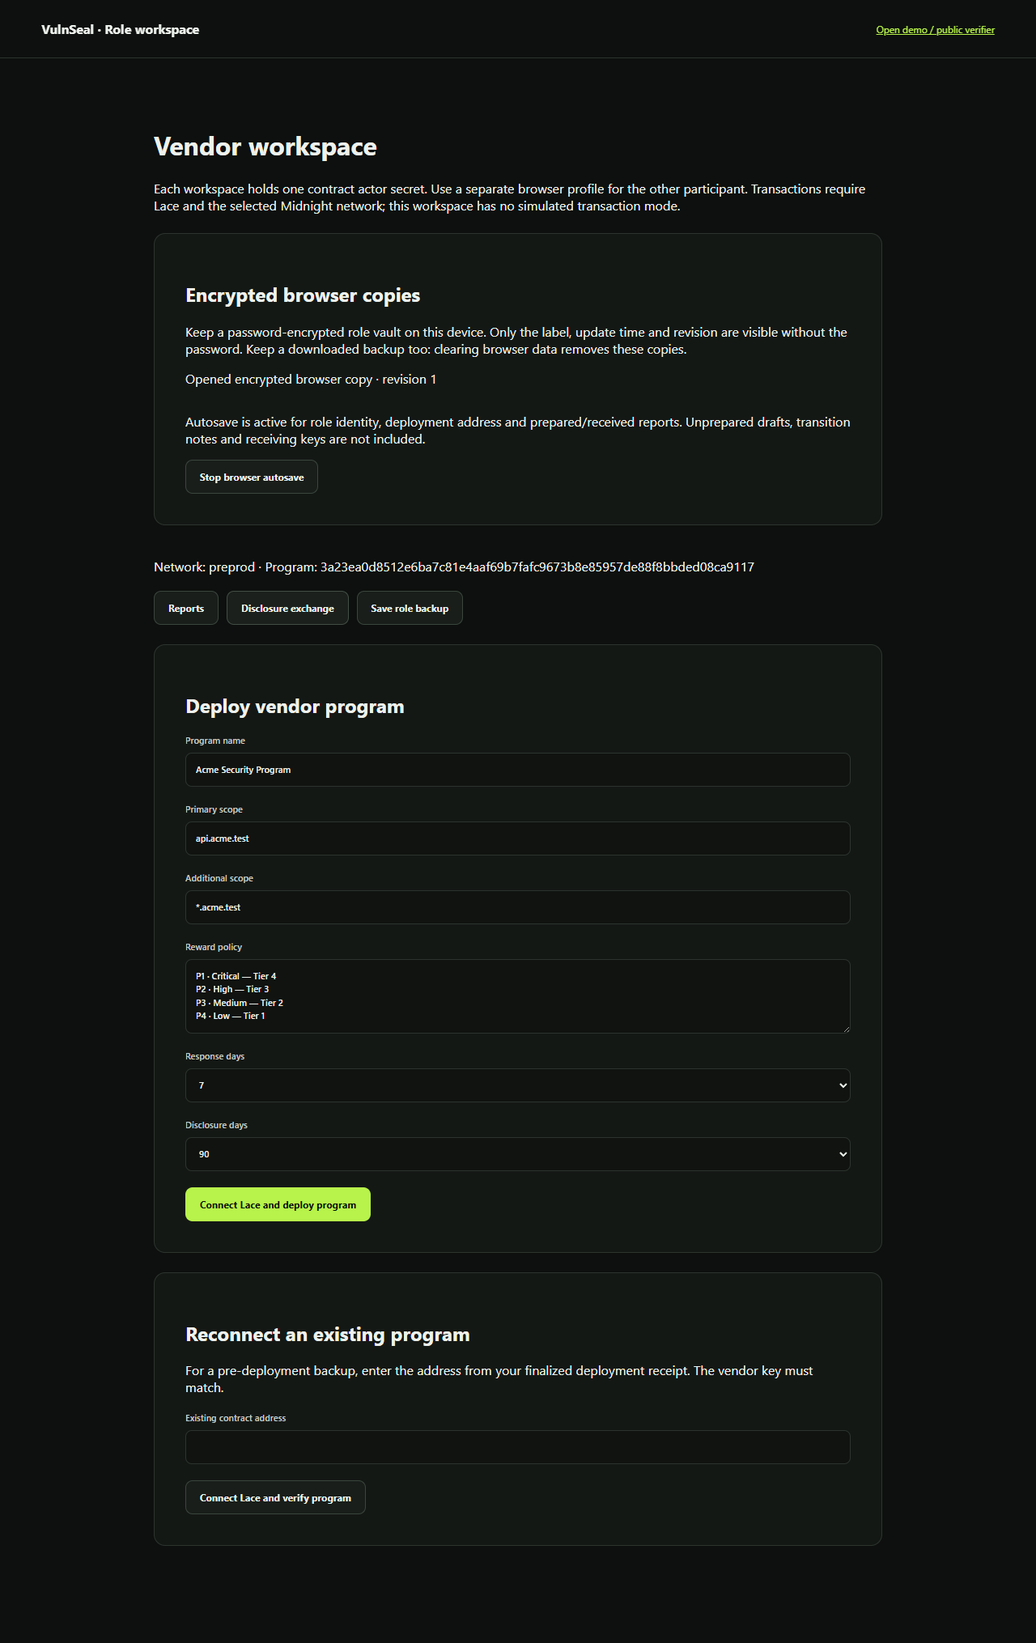
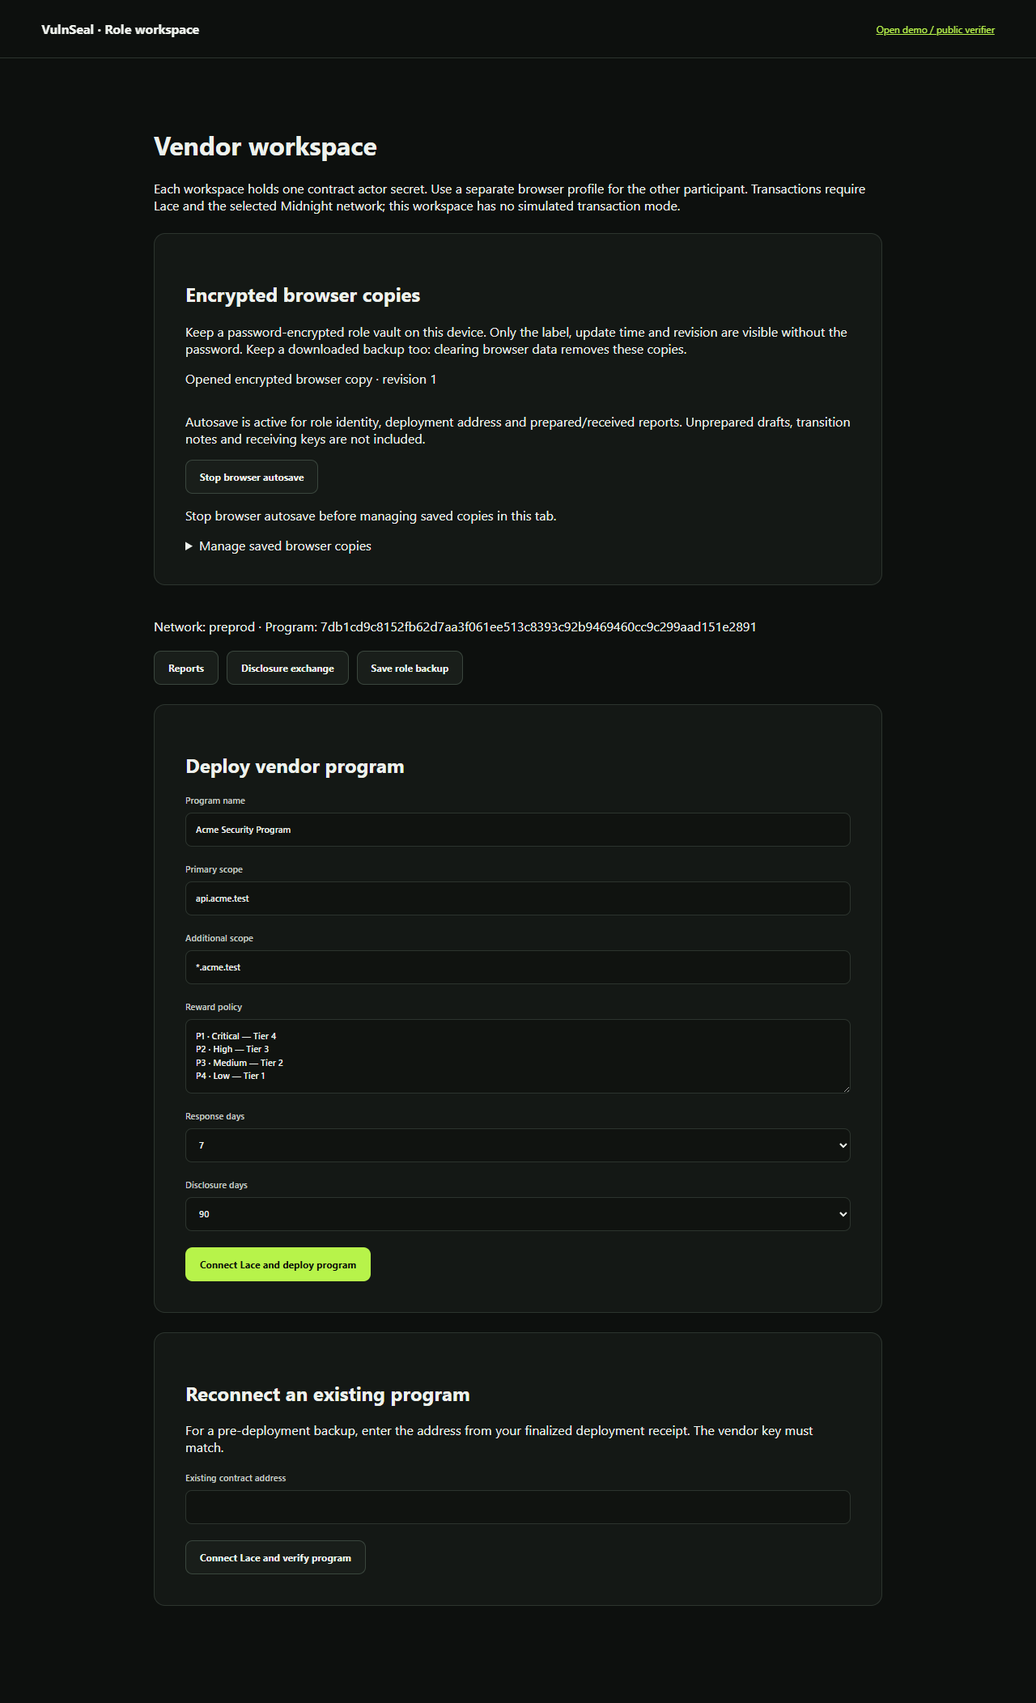
feat(web): manage encrypted browser copies with safe export and deletion

diff --git a/e2e/role-storage.spec.ts b/e2e/role-storage.spec.ts
@@ -63,4 +63,62 @@ test("IndexedDB revision comparison rejects concurrent and plaintext overwrites 
   }, id);
   expect(final.rejected).toBe(true); expect(final.row.revision).toBe(2); expect(final.row.encrypted).toBe(encrypted);
   expect(final.labels[0]).not.toHaveProperty("encrypted");
+  const deletion = await page.evaluate(async ({ id, encrypted }) => {
+    const storage = (window as unknown as { __roleStorageTest: typeof Storage }).__roleStorageTest;
+    let staleDelete = "", staleWrite = "";
+    try { await storage.deleteStoredRole(id, 1); } catch (error) { staleDelete = String(error); }
+    const retained = await storage.readStoredRole(id);
+    await storage.deleteStoredRole(id, 2);
+    try { await storage.writeStoredRole(id, "Stale tab", encrypted, 2); } catch (error) { staleWrite = String(error); }
+    return { staleDelete, retained: retained.revision, staleWrite, rows: await storage.listStoredRoles() };
+  }, { id, encrypted });
+  expect(deletion.staleDelete).toContain("changed in another tab");
+  expect(deletion.retained).toBe(2);
+  expect(deletion.staleWrite).toContain("changed in another tab");
+  expect(deletion.rows).toEqual([]);
+});
+
+test("catalog exports an encrypted copy before confirmed deletion and restores it in a separate browser context", async ({ page, browser }, testInfo) => {
+  await page.goto("/#roles");
+  await page.getByRole("button", { name: "Prepare vendor identity" }).click();
+  await page.getByLabel("Browser copy label").fill("Recovery drill");
+  await page.getByLabel("Browser copy password", { exact: true }).fill("Catalog export recovery password");
+  await page.getByLabel("Confirm browser copy password").fill("Catalog export recovery password");
+  await page.getByRole("button", { name: "Enable encrypted browser autosave" }).click();
+  await expect(page.getByText(/Saved encrypted browser copy · revision 1/)).toBeVisible();
+  await page.getByText("Manage saved browser copies", { exact: true }).click();
+  await expect(page.getByRole("button", { name: "Load saved-copy catalog" })).toBeDisabled();
+  await page.getByRole("button", { name: "Stop browser autosave" }).click();
+  await page.getByRole("button", { name: "Load saved-copy catalog" }).click();
+  await expect(page.getByText("Found 1 encrypted browser copies.")).toBeVisible();
+  await page.getByLabel("Browser copy to manage").selectOption({ index: 1 });
+  await expect(page.getByRole("button", { name: "Delete selected browser copy" })).toBeDisabled();
+  const downloadPromise = page.waitForEvent("download");
+  await page.getByRole("button", { name: "Download selected encrypted copy" }).click();
+  const path = testInfo.outputPath("catalog-backup.json");
+  await (await downloadPromise).saveAs(path);
+  const serialized = await readFile(path, "utf8");
+  const vault = await decryptRoleVault(serialized, "Catalog export recovery password");
+  expect(serialized).not.toContain(vault.actorSecret);
+  if (process.env.VULNSEAL_CAPTURE_VISUALS === "1") {
+    await page.evaluate(() => { (document.activeElement as HTMLElement | null)?.blur(); window.scrollTo({ top: 0, behavior: "instant" }); });
+    await page.screenshot({ path: `docs/screenshots/${testInfo.project.name}-copy-catalog.png`, fullPage: true });
+  }
+  await page.getByRole("checkbox", { name: /I understand deleting this copy/ }).check();
+  await page.getByRole("button", { name: "Delete selected browser copy" }).click();
+  await expect(page.getByText(/Deleted browser copy Recovery drill, revision 1/)).toBeVisible();
+  await expect(page.getByRole("heading", { name: "Vendor workspace" })).toBeVisible();
+  await page.getByRole("button", { name: "Reports", exact: true }).click();
+  await expect(page.getByRole("button", { name: "Connect Lace and deploy program" })).toBeDisabled();
+  await page.getByRole("button", { name: "Load saved-copy catalog" }).click();
+  await expect(page.getByText("No saved browser copies on this device.")).toBeVisible();
+  const isolated = await browser.newContext();
+  try {
+    const restored = await isolated.newPage(); await restored.goto(new URL("/#roles", page.url()).href);
+    await restored.getByLabel("Single-role backup file").setInputFiles(path);
+    await restored.getByLabel("Role restore password").fill("Catalog export recovery password");
+    await restored.getByRole("button", { name: "Restore role workspace" }).click();
+    await expect(restored.getByRole("heading", { name: "Vendor workspace" })).toBeVisible();
+    await expect(restored.getByText(`Network: preprod · Program: ${vault.programId}`, { exact: true })).toBeVisible();
+  } finally { await isolated.close(); }
 });

diff --git a/web/src/RoleCopyCatalog.tsx b/web/src/RoleCopyCatalog.tsx
@@ -1,0 +1,57 @@
+// SPDX-License-Identifier: Apache-2.0
+import { useRef, useState } from "react";
+import { deleteStoredRole, listStoredRoles, readStoredRole, type StoredRoleLabel } from "./role-storage.js";
+
+/** Catalog operations never decrypt a vault or install an actor identity. */
+export function RoleCopyCatalog({ disabled, onDeleted }: { readonly disabled: boolean; readonly onDeleted: (id: string) => void }) {
+  const [rows, setRows] = useState<StoredRoleLabel[]>([]);
+  const [selected, setSelected] = useState("");
+  const [confirmed, setConfirmed] = useState(false);
+  const [working, setWorking] = useState(false);
+  const [message, setMessage] = useState("");
+  const [error, setError] = useState("");
+  const busy = useRef(false);
+  const row = rows.find((entry) => entry.id === selected);
+  const run = async (action: () => Promise<void>) => {
+    if (busy.current || disabled) return;
+    busy.current = true;
+    setWorking(true); setError(""); setMessage("");
+    try { await action(); } catch (cause) { setConfirmed(false); setError(cause instanceof Error ? cause.message : "Browser copy operation failed"); }
+    finally { busy.current = false; setWorking(false); }
+  };
+  return <details>
+    <summary>Manage saved browser copies</summary>
+    <p>Download an encrypted copy before removing it from this device. Downloads keep the existing password and can be opened with Restore one role. A download does not verify that you remember the password.</p>
+    {message && <p role="status">{message}</p>}{error && <p role="alert">{error}</p>}
+    <fieldset className="workflow-controls" disabled={disabled || working}>
+      <button type="button" className="secondary-button" onClick={() => void run(async () => {
+        const values = await listStoredRoles(); setRows(values); setConfirmed(false);
+        if (!values.some((entry) => entry.id === selected)) setSelected("");
+        setMessage(values.length ? `Found ${values.length} encrypted browser copies.` : "No saved browser copies on this device.");
+      })}>Load saved-copy catalog</button>
+      <label>Browser copy to manage<select value={selected} onChange={(event) => { setSelected(event.target.value); setConfirmed(false); setError(""); setMessage(""); }}>
+        <option value="">Choose a copy to manage</option>
+        {rows.map((entry) => <option key={entry.id} value={entry.id}>{entry.label} · revision {entry.revision} · {entry.updatedAt}</option>)}
+      </select></label>
+      {row && <>
+        <p>Selected: {row.label} · revision {row.revision}. Copy ID: {row.id}</p>
+        <button type="button" className="secondary-button" onClick={() => void run(async () => {
+          const current = await readStoredRole(row.id);
+          if (current.revision !== row.revision) throw new Error("This browser copy changed. Reload the catalog before exporting the latest revision.");
+          const url = URL.createObjectURL(new Blob([current.encrypted], { type: "application/json" }));
+          const link = document.createElement("a"); link.href = url; link.download = `vulnseal-role-device-${row.id}-backup.json`;
+          document.body.append(link); link.click(); link.remove(); setTimeout(() => URL.revokeObjectURL(url), 1000);
+          setMessage(`Encrypted revision ${row.revision} downloaded. Confirm the file was saved and retain its password.`);
+        })}>Download selected encrypted copy</button>
+        <p>Deleting removes only this browser copy. It does not remove downloaded backups, other copies, ciphertext service files or on-chain records. An open workspace stays in memory; its next autosave to this deleted copy will stop.</p>
+        <label className="check-row"><input type="checkbox" checked={confirmed} onChange={(event) => setConfirmed(event.target.checked)} />I understand deleting this copy may remove my only saved authority and reports.</label>
+        <button type="button" className="secondary-button" disabled={!confirmed} onClick={() => void run(async () => {
+          await deleteStoredRole(row.id, row.revision);
+          onDeleted(row.id);
+          setRows((values) => values.filter((entry) => entry.id !== row.id)); setSelected(""); setConfirmed(false);
+          setMessage(`Deleted browser copy ${row.label}, revision ${row.revision}. Other copies remain unchanged.`);
+        })}>Delete selected browser copy</button>
+      </>}
+    </fieldset>
+  </details>;
+}

diff --git a/web/src/LocalRoleStorage.tsx b/web/src/LocalRoleStorage.tsx
@@ -3,11 +3,12 @@ import { useEffect, useRef, useState, type FormEvent } from "react";
 import { decryptRoleVault, encryptRoleVault, type RoleVault } from "./role-recovery.js";
 import { listStoredRoles, readStoredRole, writeStoredRole, type StoredRoleLabel } from "./role-storage.js";
 import { RoleAutosave } from "./role-autosave.js";
+import { RoleCopyCatalog } from "./RoleCopyCatalog.js";
 
 export function LocalRoleStorage({ vault, disabled, onRestore, onSaved }: {
   readonly vault: RoleVault | undefined; readonly disabled: boolean;
   readonly onRestore: (vault: RoleVault) => Promise<void>;
-  readonly onSaved: (vault: RoleVault) => void;
+  readonly onSaved: (vault: RoleVault | undefined) => void;
 }) {
   const [rows, setRows] = useState<StoredRoleLabel[]>([]);
   const [selected, setSelected] = useState("");
@@ -21,6 +22,7 @@ export function LocalRoleStorage({ vault, disabled, onRestore, onSaved }: {
   const [error, setError] = useState("");
   const activeWriter = useRef<RoleAutosave | undefined>(undefined);
   const saved = useRef<RoleVault | undefined>(undefined);
+  const savedCopyId = useRef<string | undefined>(undefined);
   const latest = useRef({ vault, onRestore, onSaved }); latest.current = { vault, onRestore, onSaved };
   const mounted = useRef(true), busy = useRef(false);
   useEffect(() => {
@@ -59,6 +61,7 @@ export function LocalRoleStorage({ vault, disabled, onRestore, onSaved }: {
           if (!mounted.current) return;
           const row = await writeStoredRole(crypto.randomUUID(), label, encrypted, null);
           if (!mounted.current) return;
+          savedCopyId.current = row.id;
           bind(new RoleAutosave(row, password), captured); latest.current.onSaved(captured); setPassword(""); setConfirmation("");
           setMessage(`Saved encrypted browser copy · revision ${row.revision} · ${row.updatedAt}`);
         })}>
@@ -73,6 +76,7 @@ export function LocalRoleStorage({ vault, disabled, onRestore, onSaved }: {
           if (latest.current.vault) throw new Error("A workspace is already open. Restore in a fresh tab.");
           await latest.current.onRestore(restored);
           if (!mounted.current) return;
+          savedCopyId.current = row.id;
           bind(new RoleAutosave(row, password), restored); setPassword("");
           setMessage(`Opened encrypted browser copy · revision ${row.revision}`);
         })}>
@@ -82,5 +86,14 @@ export function LocalRoleStorage({ vault, disabled, onRestore, onSaved }: {
           <button type="button" className="secondary-button" onClick={() => void listStoredRoles().then(setRows).catch((cause) => setError(cause instanceof Error ? cause.message : "Could not refresh browser copies"))}>Refresh browser copies</button>
         </form>}
     </fieldset>
+    {writer && <p>Stop browser autosave before managing saved copies in this tab.</p>}
+    <RoleCopyCatalog disabled={disabled || working || pending > 0 || writer !== undefined} onDeleted={(id) => {
+      setRows((values) => values.filter((entry) => entry.id !== id));
+      if (selected === id) setSelected("");
+      if (savedCopyId.current === id) {
+        savedCopyId.current = undefined; saved.current = undefined; latest.current.onSaved(undefined);
+        setMessage("The browser copy for this workspace was deleted. Save the open workspace again before submitting a transaction.");
+      }
+    }} />
   </section>;
 }

diff --git a/web/src/role-storage.ts b/web/src/role-storage.ts
@@ -70,3 +70,23 @@ export const writeStoredRole = async (id: string, labelText: string, encrypted: 
     tx.onabort = tx.onerror = () => { db.close(); reject(failure ?? tx.error ?? new Error("Encrypted browser storage write failed")); };
   });
 };
+
+/** Delete only the revision the user reviewed; an active stale writer cannot recreate it. */
+export const deleteStoredRole = async (id: string, expectedRevision: number): Promise<void> => {
+  if (!Number.isSafeInteger(expectedRevision) || expectedRevision < 1) throw new Error("Invalid browser-copy revision");
+  const db = await open();
+  return new Promise((resolve, reject) => {
+    const tx = db.transaction(storeName, "readwrite", { durability: "strict" });
+    const store = tx.objectStore(storeName), request = store.get(id);
+    let failure: unknown;
+    request.onsuccess = () => {
+      try {
+        if (!request.result) throw new Error("Encrypted browser copy was already removed. Refresh the catalog.");
+        if (metadata(request.result).revision !== expectedRevision) throw new Error("This browser copy changed in another tab. Refresh the catalog and review the latest revision before deleting.");
+        store.delete(id);
+      } catch (error) { failure = error; tx.abort(); }
+    };
+    tx.oncomplete = () => { db.close(); resolve(); };
+    tx.onabort = tx.onerror = () => { db.close(); reject(failure ?? tx.error ?? new Error("Could not delete encrypted browser copy")); };
+  });
+};

diff --git a/docs/adr/0011-encrypted-browser-autosave.md b/docs/adr/0011-encrypted-browser-autosave.md
@@ -20,6 +20,8 @@ The UI marks a vault revision saved only after persistence completes and only wh
 
 The catalog reveals metadata only. Unlock authenticates/decrypts the role backup, then uses the same program/authority/report checks as file recovery before installing a deployed workspace. Restoring an undeployed vendor identity requires no wallet. Autosave resumes from the exact loaded revision; changes made elsewhere before the next write trigger a conflict. The app makes no cross-tab merge attempt.
 
-Autosave covers the current `RoleVault`: role identity, deployment address and prepared/received reports. Unprepared draft edits, transition notes, receiving keys and complete transaction history are still outside that schema. The feature is scoped to one origin/browser profile and does not synchronize across devices. Password recovery, persistent-storage grants, deletion UI and quota management remain separate work. Existing IndexedDB rows are preserved on validation or storage failure.
+Autosave covers the current `RoleVault`: role identity, deployment address and prepared/received reports. Unprepared draft edits, transition notes, receiving keys and complete transaction history are still outside that schema. The feature is scoped to one origin/browser profile and does not synchronize across devices. Password recovery, persistent-storage grants and quota management remain separate work. Existing IndexedDB rows are preserved on validation or storage failure.
+
+The copy catalog exports the existing encrypted envelope without decrypting it or connecting a wallet. Export checks the reviewed revision; password knowledge is only established by a later successful restore. Deletion requires an explicit loss acknowledgment and compares the reviewed revision atomically before removing one row. The check uses metadata, so malformed ciphertext does not prevent removal. Stale writers expect an existing revision and cannot recreate deleted rows. Management is disabled while this tab is autosaving; removing this tab's saved copy resets its backup gate. Other tabs detect deletion on their next write; there is no immediate cross-tab revocation. Downloads, other copies, server files and public records are unaffected. Deletion makes no forensic-erasure guarantee.
 
 Evidence includes serialized writer tests, a UI changed-vault persistence test, fresh-tab recovery in production Chrome, and a two-tab atomic-revision test against real IndexedDB using the repository storage module. No network transaction or native Lace recovery is established by those tests.

diff --git a/docs/role-workspace.md b/docs/role-workspace.md
@@ -12,6 +12,8 @@ To resume, restore the appropriate single-role file and password in a fresh role
 
 For device-local persistence, choose **Enable encrypted browser autosave**, enter a non-sensitive label and password, and wait for **Saved encrypted browser copy**. Future role-vault changes are saved automatically. In a fresh tab, select that copy and unlock with its password; deployed programs still undergo the normal Lace/ledger checks. A successful browser save also satisfies the transaction backup gate. Keep downloaded backups because browser data can be cleared or evicted. If another tab changes the same copy, autosave stops instead of overwriting it; reopen the latest copy in a fresh tab or export the current workspace to a separate file. See [ADR-0011](adr/0011-encrypted-browser-autosave.md).
 
+To export or remove a stored copy, stop autosave in the current tab, open **Manage saved browser copies**, and load the catalog. Select the label/revision, then download its existing encrypted envelope; no password or wallet connection is needed to export. Keep the original password and test **Restore one role** in a separate browser profile before relying on the file. To delete, review the selected copy and acknowledge the loss warning. If another tab updated it, reload and review the latest revision first. Deletion affects only that browser row; an old autosave writer cannot recreate it. Deleting the copy used by the open workspace resets its transaction backup gate, so save again before submitting. Other downloaded copies, server ciphertext and on-chain records remain. This is logical deletion, not guaranteed forensic erasure.
+
 Save a new role backup after adding reports/disclosures or learning a deployment address. Confirm each download is retained. Draft form edits, receiving keys, policy text, private transition notes and full transaction history are not in this file. Keep their separate records/backups. If a transaction response is uncertain, reconcile it independently; this workspace does not automatically recover pending transactions. A finalized receipt survives a failed follow-up read in the current tab and does not trigger automatic resubmission.
 
 The role workflow is implemented, with native Lace multi-profile transaction validation still outstanding. See [validation-report.md](validation-report.md) for the distinction between live browser file/crypto checks, mocked providers and generated-circuit simulator tests.

diff --git a/docs/readiness-audit.md b/docs/readiness-audit.md
@@ -22,7 +22,7 @@ See [validation-report.md](validation-report.md) for executed commands and their
 
 | Requirement | Current evidence / gap | Completion evidence needed |
 | --- | --- | --- |
-| Durable ownership and report recovery | Encrypted file recovery plus opt-in encrypted IndexedDB role autosave; revision checks prevent stale-tab overwrites; restored deployed roles verify authority/report bindings | Real Lace network recovery, pending-transaction reconciliation, backup lifecycle/deletion/quota management and cross-device recovery drills |
+| Durable ownership and report recovery | Encrypted file recovery plus opt-in encrypted IndexedDB role autosave; catalog export and revision-checked deletion; stale writers cannot recreate deleted rows; isolated-browser file recovery drill; restored deployed roles verify authority/report bindings | Real Lace network recovery, pending-transaction reconciliation, quota management and physical cross-device recovery drills |
 | Independent researcher/vendor operation | Dedicated `/#roles` workspace, public invitations, one-role encrypted recovery, role-specific controls and ledger-bound disclosure import implemented; component/provider and simulator evidence recorded | Real native Lace multi-profile deployment/join/disclosure/triage/retest/closure ceremony; receiving keys must not be mistaken for vendor authority |
 | Public verification from a shareable receipt | Independent wallet-free lookup, public receipt export/import, fragment share links, digest/schema/finality checks implemented; captured-state browser tests and live lookup documented | Deployed-code authentication and independently authenticated state proofs remain outside this source-trusting lookup; full public history is not reconstructed |
 | Multiple reports and program discovery | Role vault retains up to 100 prepared/received reports for one program; file/browser copies preserve prior ownership material; browser catalog can reopen separate encrypted workspaces; demo still has one slot | In-session multi-program selection and durable per-report transaction/private-note histories |

diff --git a/docs/validation-report.md b/docs/validation-report.md
@@ -1,5 +1,18 @@
 # Validation report
 
+## Browser-copy lifecycle validation — 2026-09-09
+
+| Check | Command / environment | Observed result |
+| --- | --- | --- |
+| Web checks | `npm run typecheck -w @vulnseal/web`; `npm run test:run -w @vulnseal/web` | Exit 0; 14 files / 52 tests; typecheck rerun after final save-gate change |
+| Full production browser suite | `npm run test:e2e` | Exit 0; 28 passed in 1.3 minutes, before final deletion save-gate refinement |
+| Final storage lifecycle checks | `VULNSEAL_CAPTURE_VISUALS=1 npm run test:e2e -- e2e/role-storage.spec.ts` | Exit 0; production web rebuilt; 6 passed in 41.5 seconds across desktop Chrome and Pixel 7 |
+| Recovery drill | Production UI, real IndexedDB and downloaded encrypted file | Autosave stopped before management; deletion disabled without acknowledgment; encrypted file exported; selected copy deleted; live workspace retained but transaction backup gate reset; file restored in a separate browser context with matching program identity |
+| Concurrent deletion safety | Repository storage module against real two-tab IndexedDB | Stale revision cannot delete a newer row; correct revision deletes it; an old writer cannot recreate the removed row |
+| Visuals and hygiene | Mobile catalog screenshot inspected; `git diff --check`; conventional download name checked against `.gitignore` | No whitespace errors; encrypted device-export filename ignored; catalog screenshot in `docs/screenshots/*-copy-catalog.png` |
+
+These checks establish file portability between isolated browser contexts on this machine, not a physical cross-device or native Lace ceremony. The catalog does not decrypt exports or guarantee forensic erasure after deletion. Active writers in other tabs discover removal on their next save. Pending-transaction recovery and quota management remain open.
+
 ## Encrypted browser autosave validation — 2026-09-09
 
 | Check | Command / environment | Observed result |
